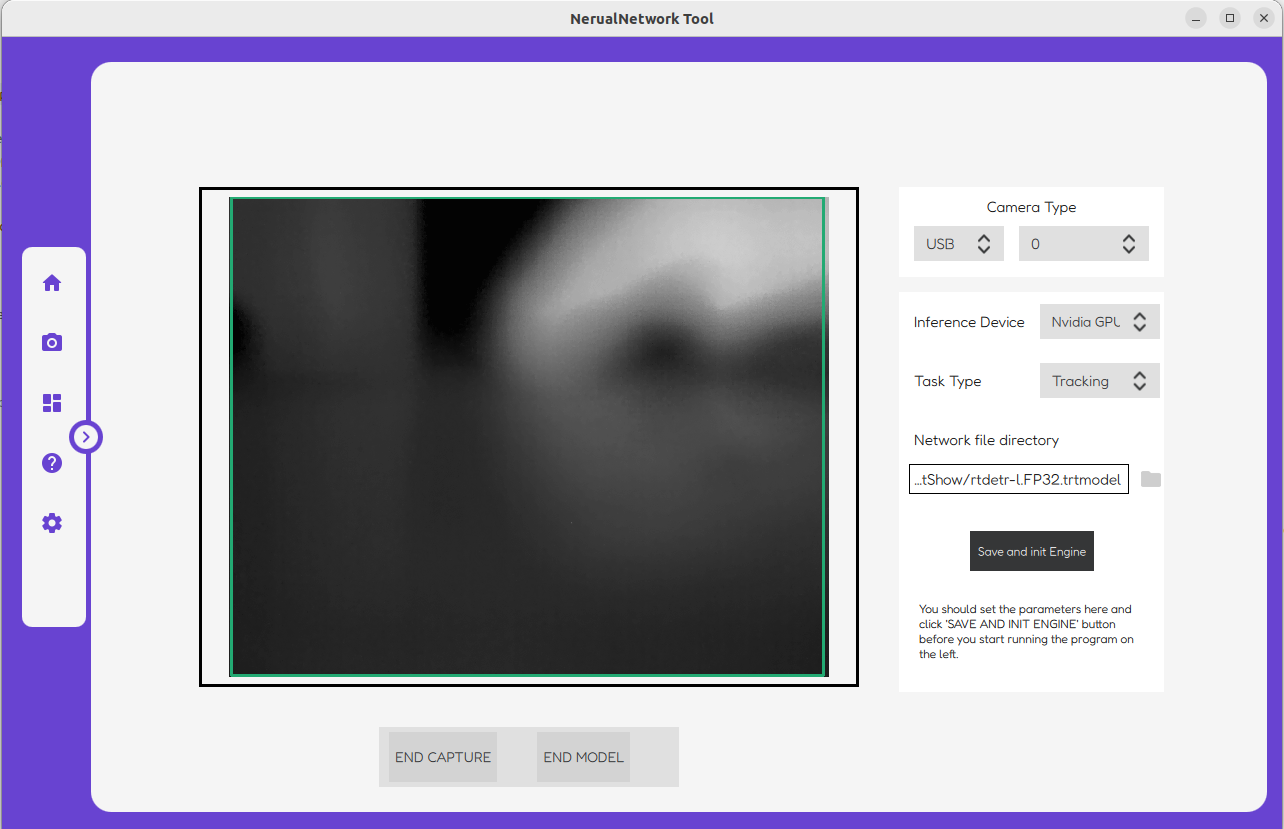
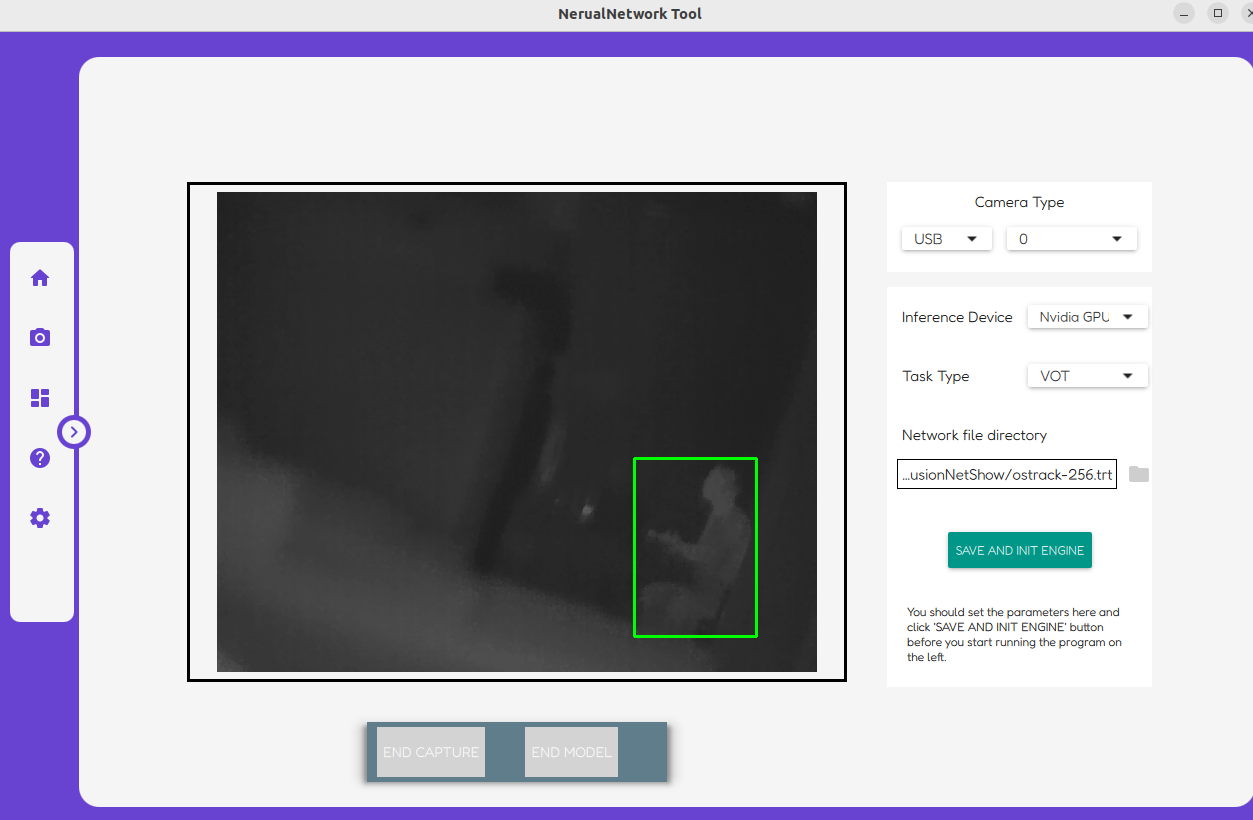
change pic

diff --git a/README.md b/README.md
@@ -1,5 +1,5 @@
 
-# RTDETR + ByteTrack + QT 
+# RTDETR + ByteTrack, OSTrack, QT 
 ---
 **项目仅做参考，部分功能未完成**
 
@@ -15,8 +15,7 @@ Your_dir
     ├── qml                 ------ qml界面文件目录
     ├── src                 ------ 源文件目录
     ├── qml.qrc             ------ qml的资源文件，里面存放了`.qml`文件路径信息， 资源文件路径信息，qml主题文件路径信息，是编译所需的源文件
-    ├── bytetrack           ------ bytetrack部分
-    └─tensorRT_Pro_Model    ------ TensorRT_Pro部分
+    └── tensorRT_Pro_Model  ------ TensorRT_Pro部分
 
 qml
     ├── CalibratePage.qml   ------ 未完成
@@ -29,7 +28,8 @@ qml
     └── SettingPage.qml     ------ 未完成
 
 include/src
-    ├── app_rtdetr          ------ 管理RTDETR与ByteTrack节点
+    ├── node_rtdetr         ------ 管理RTDETR与ByteTrack节点
+    ├── node_ostrack        ------ 管理OSTrack节点
     ├── imageprocess        ------ 相机视频流读取，调用推理入口函数
     ├── main.cpp            ------ 将类暴露给qml
     ├── ocvimageprovider    ------ QImage 与 cv::Mat 格式转换
@@ -61,12 +61,13 @@ include/src
 
 
 ## 运行方式
-+ 需要生成TensorRT的 .trt 文件, 可参考[Blog](https://blog.csdn.net/qq_40672115/article/details/134356250)
++ 需要生成TensorRT的 .trt 文件, rtdetr可参考[Blog](https://blog.csdn.net/qq_40672115/article/details/134356250)，ostrack可参考repo：[Track-TrT](https://github.com/l-sf/Track-trt)
 + 编译  
   + cd build
   + cmake ..
   + make
 + 在根目录下 ./bin/NetWorkShow 按照正确的顺序选择摄像头序列，推理任务类别和模型位置，先点击`Save and Init Engine`初始化引擎，然后可以点击左边的`Start Capture`和`Start Model`
++ ostrack在`Start Model`前，需要在Image上选择ROI
 
 ## 运行截图
 
@@ -80,6 +81,7 @@ include/src
 ## 参考资源
 + [YoloV5RGBD](https://github.com/parker-int64/yolov5-RGBD)
 + [tensorRT_Pro](https://github.com/shouxieai/tensorRT_Pro)
++ [Track-TrT](https://github.com/l-sf/Track-trt)
 + [tensorRT_Pro_YOLOV8](https://github.com/Melody-Zhou/tensorRT_Pro-YOLOv8)
 + [ByteTrack](https://github.com/ifzhang/ByteTrack)
 
